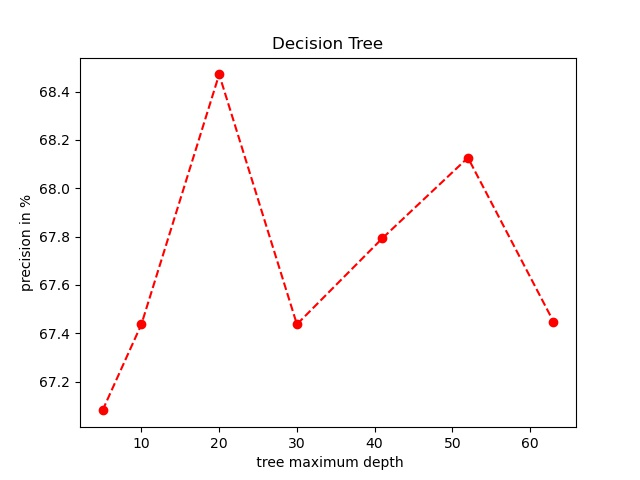
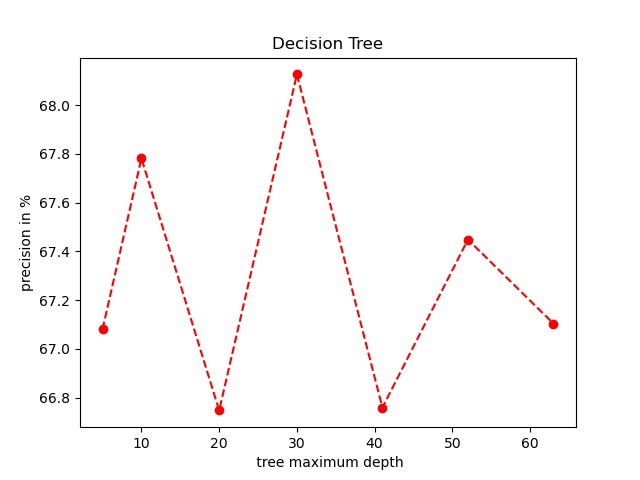
all experiments on decision tree and extra trees is done (may still need t update getBestPrecision)

diff --git a/classification/extraTrees.py b/classification/extraTrees.py
@@ -5,8 +5,8 @@ from sklearn.model_selection import train_test_split, KFold
 from helperFunctionsAndVariables.globalVariables import \
     csvProcessedDataReadPath, attributes, classificationField, \
     generalizationFactor, kFoldNumSplits, weightMap
-from helperFunctionsAndVariables.helperFunctions import createGraph,\
-    createMultipleFunctionGraph
+from helperFunctionsAndVariables.helperFunctions import createGraph, \
+    createMultipleFunctionGraph, createMultipleFunctionTable
 
 
 class ETClassifier:
@@ -14,6 +14,7 @@ class ETClassifier:
         df = pd.read_csv(csvProcessedDataReadPath + 'processedGames.csv')
         self.X = df[attributes]
         self.y = df[classificationField]
+        self.y = np.ravel(self.y)
         self.X_train, self.X_test, self.y_train, self.y_test = \
             train_test_split(self.X, self.y, test_size=testSize)
         self.Classifier = \
@@ -30,16 +31,7 @@ class ETClassifier:
         self.y_pred = self.y_pred.reshape(-1, 1)
 
     def getPrecision(self):
-        i = 0
-        wrong = 0
-        for (index, row) in self.y_test.iterrows():
-            predValue = int(self.y_pred[i])
-            realValue = int(row.values)
-            if predValue != realValue:
-                wrong += 1
-            i += 1
-        precision = (len(self.y_pred) - wrong) / len(self.y_pred)
-        return precision * 100
+        return (self.Classifier.score(self.X_test, self.y_test)) * 100
 
     def analyze(self):
         i = 0
@@ -95,15 +87,16 @@ class ETClassifier:
         df = pd.read_csv(csvProcessedDataReadPath + 'processedGames.csv')
         X = df[attributes]
         y = df[classificationField]
+        y = np.ravel(y)
         for i, nEstimators in enumerate(numberEstimatorsArray):
             for j, depth in enumerate(depths):
                 precisionSum = 0
                 for train_indexes, test_indexes in kf.split(X):
                     classifier = ETClassifier(n_estimators=nEstimators, maxDepth=depth)
                     classifier.X_train = X.iloc[train_indexes]
-                    classifier.y_train = y.iloc[train_indexes]
+                    classifier.y_train = y[train_indexes]
                     classifier.X_test = X.iloc[test_indexes]
-                    classifier.y_test = y.iloc[test_indexes]
+                    classifier.y_test = y[test_indexes]
                     classifier.train()
                     classifier.predict()
                     precisionSum += classifier.getPrecision()
@@ -115,8 +108,16 @@ class ETClassifier:
                                     " tree maximum depth",
                                     "precision in %",
                                     "results\\extra trees\\extra trees maximum "
-                                    "depth and estimators number experiment.jpg",
+                                    "depth and estimators number experiment",
                                     "extra trees maximum depth and estimators"
                                     " number experiment")
-        return [depths[maxIndex[0]], numberEstimatorsArray[maxIndex[1]],
+        createMultipleFunctionTable(depths, precisions, "number of\nestimators",
+                                    [str(i) for i in numberEstimatorsArray],
+                                    " tree maximum depth",
+                                    "precision in %",
+                                    "results\\extra trees\\extra trees maximum "
+                                    "depth and estimators number experiment",
+                                    "extra trees maximum depth and estimators"
+                                    " number experiment")
+        return [depths[maxIndex[1]], numberEstimatorsArray[maxIndex[0]],
                 precisions[maxIndex]]

diff --git a/main.py b/main.py
@@ -3,6 +3,7 @@ from classification.decisionTree import DTClassifier as dt
 from classification.KNearestNeighbors import KNNClassifier as knn
 from classification.RandomForest import RFClassifier as rf
 from classification.SVM import SVMClassifier
+from classification.extraTrees import ETClassifier as et
 from scrapping.fetchFunctions import cleanLinks
 
 testSizeArray = [0.15, 0.2, 0.25, 0.3, 0.4]
@@ -106,3 +107,23 @@ if __name__ == '__main__':
     # print("        -maximum depth experiment: the best max depth is {}"
     #       ",and it`s resulted precision is: {:.2f}%"
     #       .format(int(er12[0]), er12[1]))
+    ##################################################################
+    #######################   Extra Trees   #####################################
+    print("Extra Trees: ")
+
+    er13 = et.extraTreesBasicClassification()
+    print("        -basic classification precision: {:.2f}%"
+          .format(er13))
+
+    er14 = et.experimentOnTestSize(testSizeArray)
+    print("        -test size experiment: best test size is {}% of the data "
+          ",and it`s resulted precision is: {:.2f}%"
+          .format(int(er14[0] * 100), er14[1]))
+
+    er15 = et.experimentOnDepthAndNEstimators(
+        [5, 10, 20, 30, 41, 52, 63], [7, 13, 15, 23, 41])
+    print("        -maximum depth and number of estimators experiment: "
+          "the best max depth and "
+          "number of estimators\n          is ({},{})"
+          ",and it`s resulted precision is: {:.2f}%"
+          .format(int(er15[0]), er15[1], er15[2]))

diff --git a/classification/decisionTree.py b/classification/decisionTree.py
@@ -175,6 +175,7 @@ class DTClassifier:
         return [depths[maxIndex[1]], minSamplesLeafArray[maxIndex[0]],
                 precisions[maxIndex]]
 
+    """ TODO: may need to update this function """
     @staticmethod
     def getBestPrecision(basic, maxDepthExperiment, testSizeExperiment):
         precisionSum = 0

diff --git a/classification/SVM.py b/classification/SVM.py
@@ -70,3 +70,5 @@ class SVMClassifier:
                      "precision in %", "results\\svm\\"
                                        "svm test size experiment.jpg", "SVM")
         return [sizes[maxIndex], precisions[maxIndex]]
+
+    """ TODO : add an experiment on 2 hypermarkets cross-validation"""
